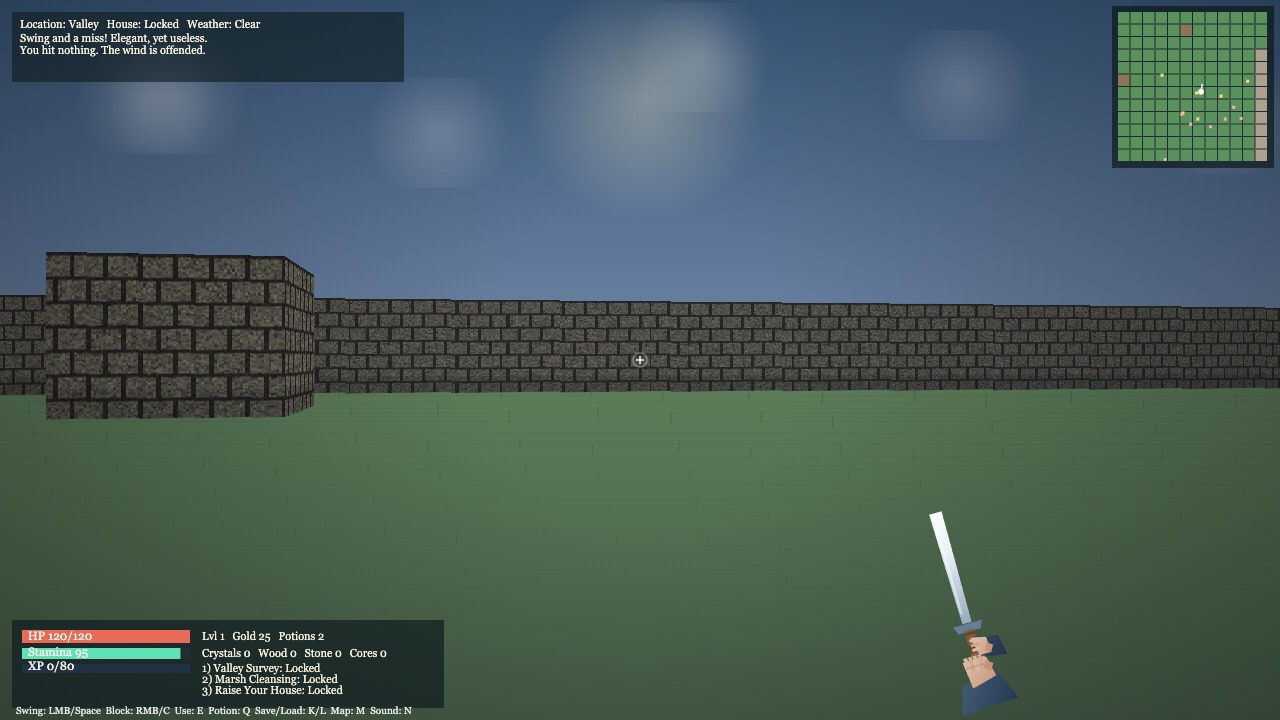
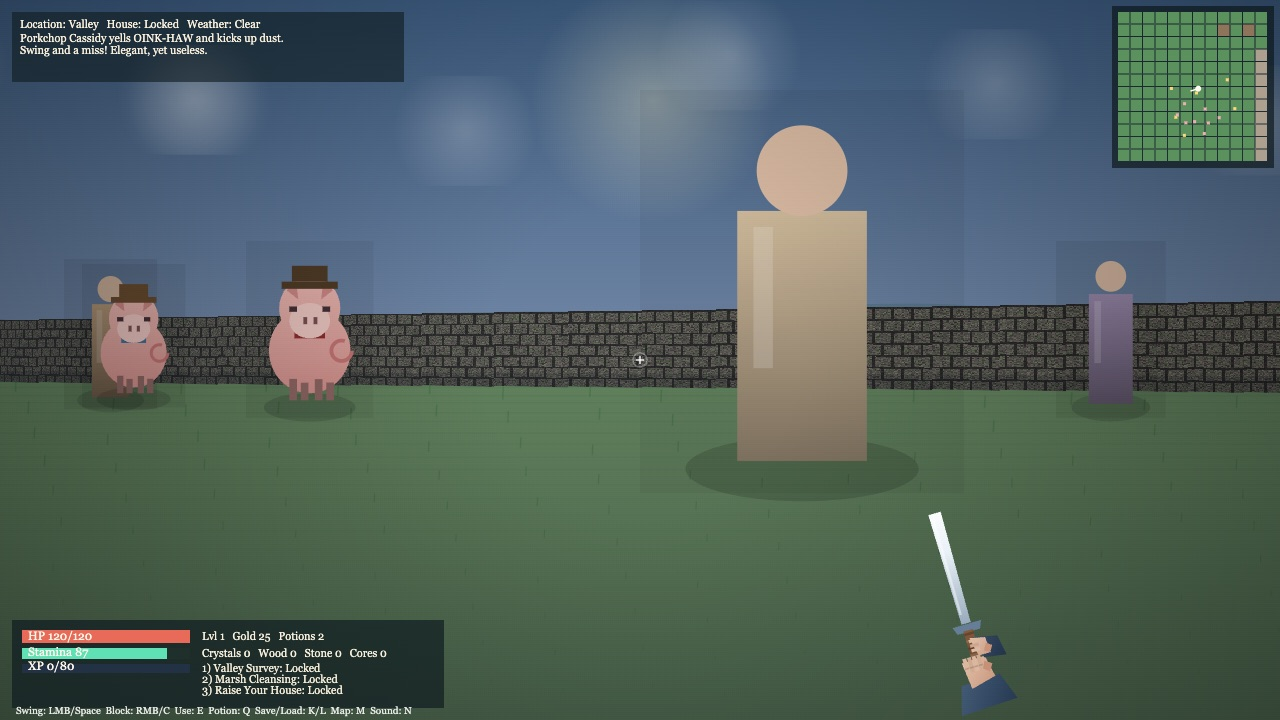
New pic

diff --git a/README.md b/README.md
@@ -14,10 +14,10 @@ Built with plain web tech so the game logic stays transparent, hackable, and fas
 ## Gameplay Preview
 
 <p align="center">
-  <img src="docs/images/gameplay-preview.png" alt="WestWardRPG gameplay preview in first-person mode" width="960">
+  <img src="docs/images/gameplay-preview.jpg" alt="WestWardRPG action scene with sword combat HUD, minimap, NPCs, and roaming outlaw pigs" width="960">
 </p>
 
-In-game valley scene with HUD, minimap, and sword combat view.
+Action-heavy valley encounter with active combat log, sword view, NPCs, and pig chaos.
 
 ## Quick Navigation
 
@@ -63,18 +63,6 @@ In-game valley scene with HUD, minimap, and sword combat view.
 - **Progression**: XP/level curve, gold economy, potions, resource harvesting.
 - **Quest Arc**: 3-step progression from survey → cleanse marsh → build house.
 - **Settlement Life**: NPC interactions, shop, inn vibes, bard lines, pig chaos.
-
-### Pig Chaos
-
-Eight western-themed pigs roam the valley — each with a name, role, hat, and bandana. They wander, stampede, pickpocket your gold, and react when you get close.
-
-<p align="center">
-  <img src="docs/images/pig-chaos.png" alt="Western pigs roaming the valley in WestWardRPG" width="960">
-</p>
-
-<p align="center">
-  <img src="docs/images/pig-herd.png" alt="Pig herd with hats and bandanas in WestWardRPG" width="960">
-</p>
 
 ## Language Support
 
